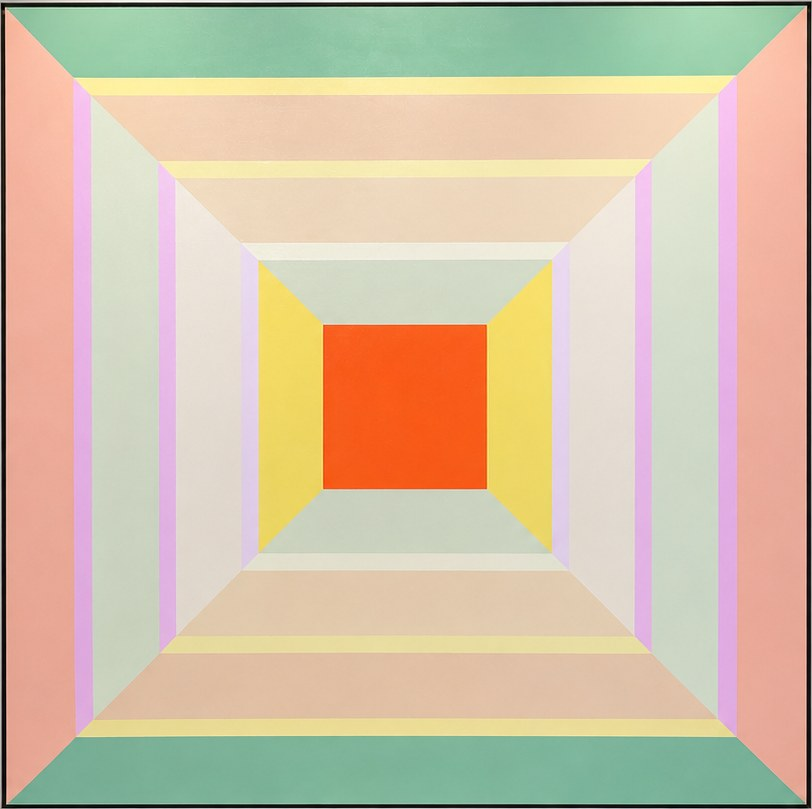
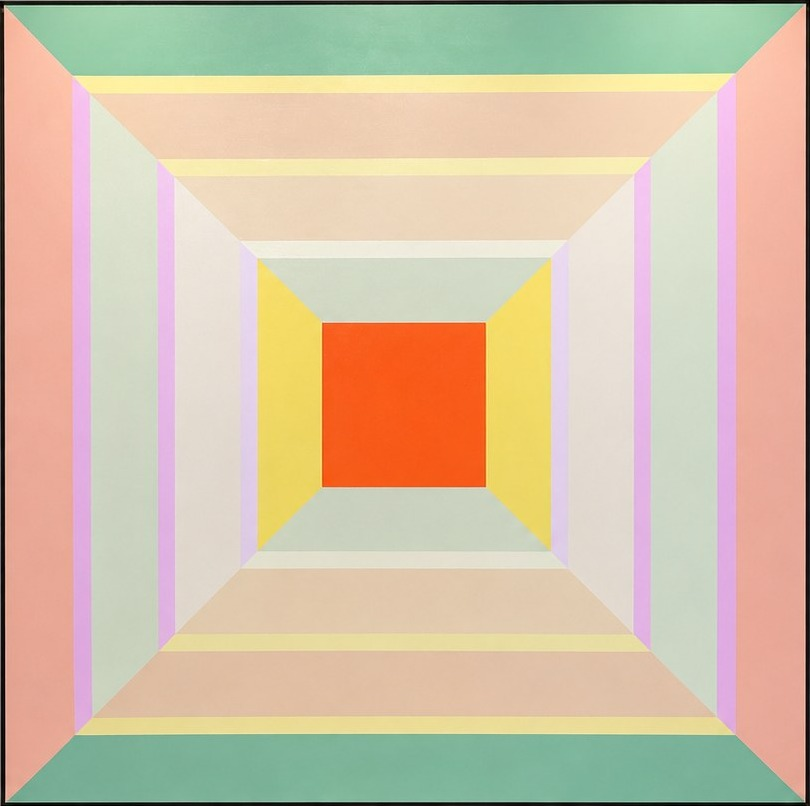
Trim hairline wall edges from Patrice Bertin works
Claude-Session: https://claude.ai/code/session_016Lo5qMsXVYYyB4rEtzvvTs

Changed region(s): [[0.0, 0.0, 1.0, 1.0], [0.0926, 0.0931, 0.463, 0.1241], [0.4012, 0.3722, 0.5864, 0.4032]]

diff --git a/index.html b/index.html
@@ -205,23 +205,23 @@ body[data-view]:not([data-view="home"]) .bio{padding-top:300px}
 <article class="work"><img src="img/savas-18.jpg" alt="Close-up detail of a textile wall work by Indra Marcinkevičienė" width="800" height="1000" loading="lazy"><h3>Detail</h3><p>Close-up of work 1, showing the sewn textile forms</p></article></div></div></section>
 
 <section id="patrice" class="dark bio"><div class="wrap"><h2>Patrice Bertin</h2><p>Born in France, Patrice Bertin trained at the Académie Charpentier and the École Nationale Supérieure des Arts Décoratifs (ENSAD).</p><p>He began his career in the conservation and restoration of art. In the 1970s he brought his private conservation practice to New York, where he worked extensively with Old Master, Impressionist and contemporary paintings, including important works associated with Galerie Wildenstein and distinguished private collections.</p><p>Years of studying paintings through the eyes of a conservator shaped his own artistic language. His intimate knowledge of pigment, surface, light and structure became the foundation for his painting, as he moved from preserving the vision of others to expressing his own.</p><p>Bertin’s paintings explore the tension between color and form, movement and stillness, intuition and structure. Geometric compositions of vertical and horizontal elements create a delicate equilibrium, in which color becomes a means of emotion, rhythm and discovery.</p><p>His work is presented to collectors through SAVAS Art House.</p></div></section>
-<section id="patrice-works" class="wall"><div class="wrap"><h3 style="margin-bottom:1rem">Selected works</h3><div class="scaled"><article class="work" style="--w:72"><img src="img/savas-19.jpg" alt="Patrice Bertin, A Place Beyond Time" width="812" height="809" loading="lazy"><h3>A Place Beyond Time</h3><p>Oil on canvas<br>72 × 72 in<br>$17,000</p><button class="btn" data-art="Patrice Bertin, A Place Beyond Time">Inquire</button></article>
+<section id="patrice-works" class="wall"><div class="wrap"><h3 style="margin-bottom:1rem">Selected works</h3><div class="scaled"><article class="work" style="--w:72"><img src="img/savas-19.jpg" alt="Patrice Bertin, A Place Beyond Time" width="810" height="806" loading="lazy"><h3>A Place Beyond Time</h3><p>Oil on canvas<br>72 × 72 in<br>$17,000</p><button class="btn" data-art="Patrice Bertin, A Place Beyond Time">Inquire</button></article>
 <article class="work" style="--w:48"><img src="img/savas-21.jpg" alt="Patrice Bertin, A Glimpse of Elsewhere" width="734" height="764" loading="lazy"><h3>A Glimpse of Elsewhere</h3><p>Oil on canvas<br>48 × 48 in<br>$14,000</p><button class="btn" data-art="Patrice Bertin, A Glimpse of Elsewhere">Inquire</button></article>
 <article class="work" style="--w:58"><img class="cut" src="img/savas-30.png" alt="Patrice Bertin, To the Point" width="800" height="800" loading="lazy"><h3>To the Point</h3><p>Oil on canvas<br>58 × 58 in<br>$16,000</p><button class="btn" data-art="Patrice Bertin, To the Point">Inquire</button></article>
-<article class="work" style="--w:54"><img src="img/savas-20.jpg" alt="Patrice Bertin, The Heart of Geometry" width="774" height="769" loading="lazy"><h3>The Heart of Geometry</h3><p>Oil on canvas<br>54 × 54 in<br>$12,000</p><button class="btn" data-art="Patrice Bertin, The Heart of Geometry">Inquire</button></article>
+<article class="work" style="--w:54"><img src="img/savas-20.jpg" alt="Patrice Bertin, The Heart of Geometry" width="772" height="767" loading="lazy"><h3>The Heart of Geometry</h3><p>Oil on canvas<br>54 × 54 in<br>$12,000</p><button class="btn" data-art="Patrice Bertin, The Heart of Geometry">Inquire</button></article>
 <article class="work" style="--w:23"><img class="cut" src="img/savas-29.png" alt="Patrice Bertin, A Little Elsewhere" width="398" height="302" loading="lazy"><h3>A Little Elsewhere</h3><p>Oil on canvas<br>17½ × 23 in<br>$7,700</p><button class="btn" data-art="Patrice Bertin, A Little Elsewhere">Inquire</button></article>
 <article class="work" style="--w:37"><img class="cut" src="img/savas-28.png" alt="Patrice Bertin, Through Space" width="682" height="771" loading="lazy"><h3>Through Space</h3><p>Oil on canvas<br>43 × 37 in<br>$11,000</p><button class="btn" data-art="Patrice Bertin, Through Space">Inquire</button></article>
-<article class="work" style="--w:12.5"><img src="img/savas-25.jpg" alt="Patrice Bertin, The Colourful River of Life" width="166" height="1102" loading="lazy"><h3>The Colourful River of Life</h3><p>Oil on canvas<br>96 × 12½ in<br>$5,500</p><button class="btn" data-art="Patrice Bertin, The Colourful River of Life">Inquire</button></article>
-<article class="work" style="--w:12.5"><img src="img/savas-26.jpg" alt="Patrice Bertin, The River of Life" width="167" height="1102" loading="lazy"><h3>The River of Life</h3><p>Oil on canvas<br>96 × 12½ in<br>$5,500</p><button class="btn" data-art="Patrice Bertin, The River of Life">Inquire</button></article>
-<article class="work" style="--w:48"><img src="img/savas-31.jpg" alt="Patrice Bertin, The Saddle" width="900" height="895" loading="lazy"><h3>The Saddle</h3><p>Oil on canvas<br>48 × 48 in<br>$16,000</p><button class="btn" data-art="Patrice Bertin, The Saddle">Inquire</button></article>
+<article class="work" style="--w:12.5"><img src="img/savas-25.jpg" alt="Patrice Bertin, The Colourful River of Life" width="164" height="1099" loading="lazy"><h3>The Colourful River of Life</h3><p>Oil on canvas<br>96 × 12½ in<br>$5,500</p><button class="btn" data-art="Patrice Bertin, The Colourful River of Life">Inquire</button></article>
+<article class="work" style="--w:12.5"><img src="img/savas-26.jpg" alt="Patrice Bertin, The River of Life" width="165" height="1099" loading="lazy"><h3>The River of Life</h3><p>Oil on canvas<br>96 × 12½ in<br>$5,500</p><button class="btn" data-art="Patrice Bertin, The River of Life">Inquire</button></article>
+<article class="work" style="--w:48"><img src="img/savas-31.jpg" alt="Patrice Bertin, The Saddle" width="898" height="895" loading="lazy"><h3>The Saddle</h3><p>Oil on canvas<br>48 × 48 in<br>$16,000</p><button class="btn" data-art="Patrice Bertin, The Saddle">Inquire</button></article>
 <article class="work" style="--w:48"><img src="img/savas-24.jpg" alt="Patrice Bertin, The Gateway" width="763" height="938" loading="lazy"><h3>The Gateway</h3><p>Oil on canvas<br>48 × 60 in<br>$14,000</p><button class="btn" data-art="Patrice Bertin, The Gateway">Inquire</button></article>
 <article class="work" style="--w:62"><img src="img/savas-32.jpg" alt="Patrice Bertin, Beyond the Ordinary" width="461" height="455" loading="lazy"><h3>Beyond the Ordinary</h3><p>Oil on canvas<br>62 × 62 in<br>$14,000</p><button class="btn" data-art="Patrice Bertin, Beyond the Ordinary">Inquire</button></article>
 <article class="work" style="--w:34"><img class="cut" src="img/savas-33.png" alt="Patrice Bertin, Paris Composition 1961" width="290" height="393" loading="lazy"><h3>Paris Composition 1961</h3><p>Oil on canvas<br>52 × 34 in<br>Louis XVI-style gilded frame<br>$14,500</p><button class="btn" data-art="Patrice Bertin, Paris Composition 1961">Inquire</button></article>
 <article class="work" style="--w:12.5"><img src="img/savas-34.jpg" alt="Patrice Bertin, Colourful Moments" width="90" height="448" loading="lazy"><h3>Colourful Moments</h3><p>Oil on canvas<br>84 × 12½ in<br>$7,700</p><button class="btn" data-art="Patrice Bertin, Colourful Moments">Inquire</button></article>
 <article class="work" style="--w:20"><img src="img/savas-35.jpg" alt="Patrice Bertin, Standing Tall" width="127" height="436" loading="lazy"><h3>Standing Tall</h3><p>Oil on canvas<br>60 × 20 in<br>$5,500</p><button class="btn" data-art="Patrice Bertin, Standing Tall">Inquire</button></article>
-<article class="work" style="--w:48"><img src="img/savas-22.jpg" alt="Patrice Bertin, Selected artwork 04" width="775" height="767" loading="lazy"><h3>Selected artwork 04</h3><p>Oil on canvas<br>48 × 48 in<br>Price Upon Request</p><button class="btn" data-art="Patrice Bertin, Selected artwork 04 (PB04)">Inquire</button></article>
-<article class="work" style="--w:36"><img src="img/savas-23.jpg" alt="Patrice Bertin, Selected artwork 05" width="743" height="976" loading="lazy"><h3>Selected artwork 05</h3><p>Oil on canvas<br>36 × 48 in<br>Price Upon Request</p><button class="btn" data-art="Patrice Bertin, Selected artwork 05 (PB05)">Inquire</button></article>
-<article class="work" style="--w:36"><img src="img/savas-27.jpg" alt="Patrice Bertin, Selected artwork 08" width="691" height="1066" loading="lazy"><h3>Selected artwork 08</h3><p>Oil on canvas<br>36 × 60 in<br>Price Upon Request</p><button class="btn" data-art="Patrice Bertin, Selected artwork 08 (PB08)">Inquire</button></article></div></div></section>
+<article class="work" style="--w:48"><img src="img/savas-22.jpg" alt="Patrice Bertin, Selected artwork 04" width="773" height="765" loading="lazy"><h3>Selected artwork 04</h3><p>Oil on canvas<br>48 × 48 in<br>Price Upon Request</p><button class="btn" data-art="Patrice Bertin, Selected artwork 04 (PB04)">Inquire</button></article>
+<article class="work" style="--w:36"><img src="img/savas-23.jpg" alt="Patrice Bertin, Selected artwork 05" width="741" height="974" loading="lazy"><h3>Selected artwork 05</h3><p>Oil on canvas<br>36 × 48 in<br>Price Upon Request</p><button class="btn" data-art="Patrice Bertin, Selected artwork 05 (PB05)">Inquire</button></article>
+<article class="work" style="--w:36"><img src="img/savas-27.jpg" alt="Patrice Bertin, Selected artwork 08" width="689" height="1062" loading="lazy"><h3>Selected artwork 08</h3><p>Oil on canvas<br>36 × 60 in<br>Price Upon Request</p><button class="btn" data-art="Patrice Bertin, Selected artwork 08 (PB08)">Inquire</button></article></div></div></section>
 
 <section id="hal" class="dark bio"><div class="wrap"><h2>Hal Trager</h2><p>Born in the Bronx and raised on Long Island, Hal Trager has built his art on seeing the world differently.</p><p>At two years old, an accident left him with only 35% of the vision in his left eye. For years he believed he saw the world as everyone else did. At nine, sitting with his father in New York City, he began to understand how different his perspective was. Asked to consider the form of a skyscraper, he saw more than a flat surface. He saw depth, dimension and movement. He picked up a pencil and drew what he saw, beginning a lifelong exploration of perspective and perception.</p><p>Today Trager works primarily with plastic matte film, creating intricate hand-drawn compositions that challenge the eye and invite the viewer to experience reality from another perspective. His work embodies the essence of Op Art: transforming the ordinary into the extraordinary and making the unseen seen.</p><p>His work is presented to collectors through SAVAS Art House.</p></div></section>
 <section id="hal-works" class="wall"><div class="wrap"><h3 style="margin-bottom:1rem">Selected works</h3><p>Framed dimensions, height × width.</p><div class="scaled"><article class="work" style="--w:22"><img src="img/savas-36.jpg" alt="Hal Trager, Timothy Leary’s Dream" width="900" height="1162" loading="lazy"><h3>Timothy Leary’s Dream</h3><p>Plastic Matte Film<br>27 × 22 in<br>$3,500</p><button class="btn" data-art="Hal Trager, Timothy Leary’s Dream (HT02)">Inquire</button></article>
